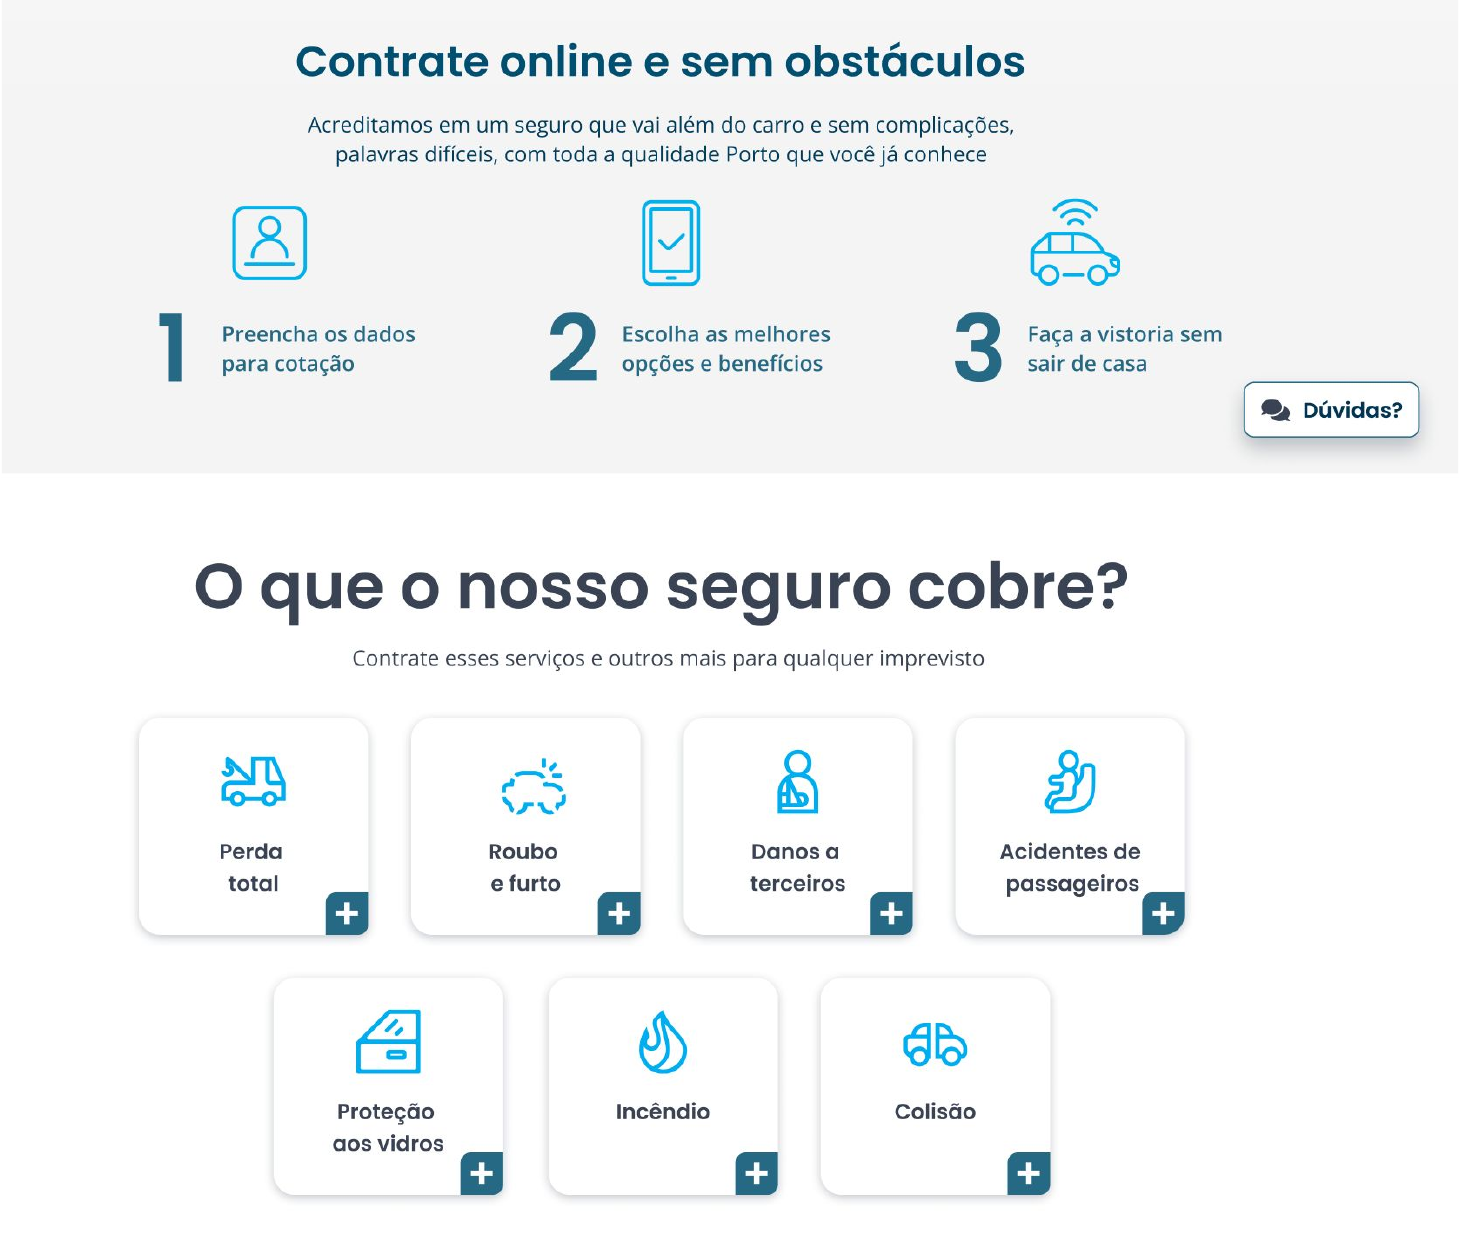
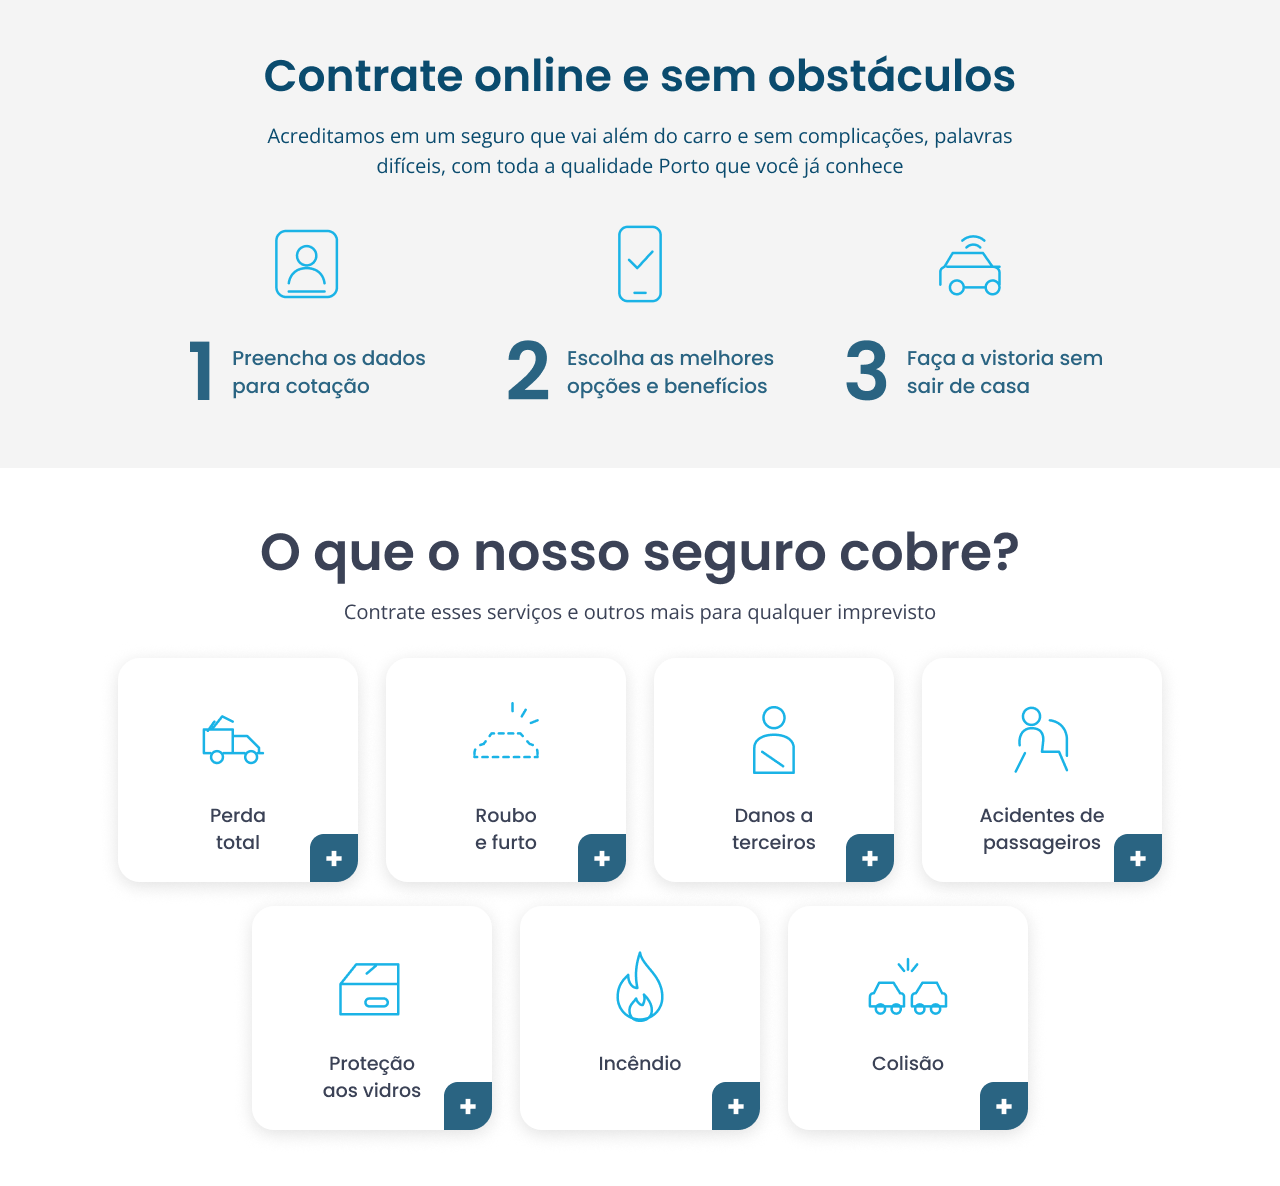
Porto: nova tela centralizada de Contrate online e Coberturas, feita no Figma (#66)
Claude-Session: https://claude.ai/code/session_011ETaZtr8DPnPDrrejMEoaU

diff --git a/es/index.html b/es/index.html
@@ -88,7 +88,7 @@
 <p class="wk-sub">De la preparación a la puerta, el comprador sigue su pedido en la app, en el push y en la pantalla de bloqueo.</p>
 </a>
 <a class="wk" href="#cotacao-seguro-auto" data-case="cotacao-seguro-auto" aria-label="Cotización de seguro auto en Porto">
-<div class="wk-cover"><div class="wk-imgs" style="--cols:1.616fr 1.179fr 1.674fr"><img style="aspect-ratio:1196/740" src="/porto-home.png" alt="Home del seguro auto: Un seguro fácil de entender, ventajas y los tres pasos de la contratación" loading="lazy"><img style="aspect-ratio:1460/1238" src="/porto-contrate.png" alt="Secciones Contratá online y sin obstáculos, con los tres pasos, y ¿Qué cubre nuestro seguro?, con siete coberturas" loading="lazy"><img style="aspect-ratio:1540/920" src="/porto-descontos.png" alt="Sección ¿Y por qué no más descuentos?, con las ventajas de la app Trânsito mais gentil, de Vivo y de Itaú" loading="lazy"></div></div>
+<div class="wk-cover"><div class="wk-imgs" style="--cols:1.616fr 1.079fr 1.674fr"><img style="aspect-ratio:1196/740" src="/porto-home.png" alt="Home del seguro auto: Un seguro fácil de entender, ventajas y los tres pasos de la contratación" loading="lazy"><img style="aspect-ratio:1280/1186" src="/porto-contrate.png" alt="Secciones Contratá online y sin obstáculos, con los tres pasos, y ¿Qué cubre nuestro seguro?, con siete coberturas" loading="lazy"><img style="aspect-ratio:1540/920" src="/porto-descontos.png" alt="Sección ¿Y por qué no más descuentos?, con las ventajas de la app Trânsito mais gentil, de Vivo y de Itaú" loading="lazy"></div></div>
 <p class="wk-meta"><b>Cotización de seguro auto en Porto</b>&nbsp; Porto</p>
 <p class="wk-sub">Un recorrido de cotización que la gente entiende sin necesitar un corredor.</p>
 </a>
@@ -209,9 +209,9 @@
 <p class="cx-role"><b>Product y Content Designer</b><span>Porto</span></p>
 </div>
 <div class="cx-bleed">
-<div class="cx-strip imgs fx" style="--n:3;--cols:1.616fr 1.179fr 1.674fr">
+<div class="cx-strip imgs fx" style="--n:3;--cols:1.616fr 1.079fr 1.674fr">
 <img style="aspect-ratio:1196/740" src="/porto-home.png" alt="Home del seguro auto: Un seguro fácil de entender, ventajas y los tres pasos de la contratación" loading="lazy">
-<img style="aspect-ratio:1460/1238" src="/porto-contrate.png" alt="Secciones Contratá online y sin obstáculos, con los tres pasos, y ¿Qué cubre nuestro seguro?, con siete coberturas" loading="lazy">
+<img style="aspect-ratio:1280/1186" src="/porto-contrate.png" alt="Secciones Contratá online y sin obstáculos, con los tres pasos, y ¿Qué cubre nuestro seguro?, con siete coberturas" loading="lazy">
 <img style="aspect-ratio:1540/920" src="/porto-descontos.png" alt="Sección ¿Y por qué no más descuentos?, con las ventajas de la app Trânsito mais gentil, de Vivo y de Itaú" loading="lazy">
 </div>
 </div>

diff --git a/pt/index.html b/pt/index.html
@@ -106,7 +106,7 @@
 <p class="wk-sub">Do preparo até a porta, o comprador acompanha o pedido no app, no push e na tela de bloqueio.</p>
 </a>
 <a class="wk" href="#cotacao-seguro-auto" data-case="cotacao-seguro-auto" aria-label="Cotação de seguro auto na Porto">
-<div class="wk-cover"><div class="wk-imgs" style="--cols:1.616fr 1.179fr 1.674fr"><img style="aspect-ratio:1196/740" src="/porto-home.png" alt="Página inicial do seguro auto: Um seguro fácil de entender, vantagens e os três passos da contratação" loading="lazy"><img style="aspect-ratio:1460/1238" src="/porto-contrate.png" alt="Seções Contrate online e sem obstáculos, com os três passos, e O que o nosso seguro cobre?, com sete coberturas" loading="lazy"><img style="aspect-ratio:1540/920" src="/porto-descontos.png" alt="Seção E por que não mais descontos?, com as vantagens do app Trânsito mais gentil, da Vivo e do Itaú" loading="lazy"></div></div>
+<div class="wk-cover"><div class="wk-imgs" style="--cols:1.616fr 1.079fr 1.674fr"><img style="aspect-ratio:1196/740" src="/porto-home.png" alt="Página inicial do seguro auto: Um seguro fácil de entender, vantagens e os três passos da contratação" loading="lazy"><img style="aspect-ratio:1280/1186" src="/porto-contrate.png" alt="Seções Contrate online e sem obstáculos, com os três passos, e O que o nosso seguro cobre?, com sete coberturas" loading="lazy"><img style="aspect-ratio:1540/920" src="/porto-descontos.png" alt="Seção E por que não mais descontos?, com as vantagens do app Trânsito mais gentil, da Vivo e do Itaú" loading="lazy"></div></div>
 <p class="wk-meta"><b>Cotação de seguro auto na Porto</b>&nbsp; Porto</p>
 <p class="wk-sub">Uma jornada de cotação que as pessoas entendem sem precisar de um corretor.</p>
 </a>
@@ -227,9 +227,9 @@
 <p class="cx-role"><b>Product e Content Designer</b><span>Porto</span></p>
 </div>
 <div class="cx-bleed">
-<div class="cx-strip imgs fx" style="--n:3;--cols:1.616fr 1.179fr 1.674fr">
+<div class="cx-strip imgs fx" style="--n:3;--cols:1.616fr 1.079fr 1.674fr">
 <img style="aspect-ratio:1196/740" src="/porto-home.png" alt="Página inicial do seguro auto: Um seguro fácil de entender, vantagens e os três passos da contratação" loading="lazy">
-<img style="aspect-ratio:1460/1238" src="/porto-contrate.png" alt="Seções Contrate online e sem obstáculos, com os três passos, e O que o nosso seguro cobre?, com sete coberturas" loading="lazy">
+<img style="aspect-ratio:1280/1186" src="/porto-contrate.png" alt="Seções Contrate online e sem obstáculos, com os três passos, e O que o nosso seguro cobre?, com sete coberturas" loading="lazy">
 <img style="aspect-ratio:1540/920" src="/porto-descontos.png" alt="Seção E por que não mais descontos?, com as vantagens do app Trânsito mais gentil, da Vivo e do Itaú" loading="lazy">
 </div>
 </div>

diff --git a/index.html b/index.html
@@ -88,7 +88,7 @@
 <p class="wk-sub">From prep to the door, buyers follow their order in the app, in push notifications and on the lock screen.</p>
 </a>
 <a class="wk" href="#cotacao-seguro-auto" data-case="cotacao-seguro-auto" aria-label="Car insurance quote at Porto">
-<div class="wk-cover"><div class="wk-imgs" style="--cols:1.616fr 1.179fr 1.674fr"><img style="aspect-ratio:1196/740" src="/porto-home.png" alt="Auto insurance home: An insurance that is easy to understand, benefits and the three buying steps" loading="lazy"><img style="aspect-ratio:1460/1238" src="/porto-contrate.png" alt="Sections Buy online with no obstacles, with the three steps, and What does our insurance cover?, with seven coverages" loading="lazy"><img style="aspect-ratio:1540/920" src="/porto-descontos.png" alt="Section Why not more discounts?, with the perks from the Trânsito mais gentil app, Vivo and Itaú" loading="lazy"></div></div>
+<div class="wk-cover"><div class="wk-imgs" style="--cols:1.616fr 1.079fr 1.674fr"><img style="aspect-ratio:1196/740" src="/porto-home.png" alt="Auto insurance home: An insurance that is easy to understand, benefits and the three buying steps" loading="lazy"><img style="aspect-ratio:1280/1186" src="/porto-contrate.png" alt="Sections Buy online with no obstacles, with the three steps, and What does our insurance cover?, with seven coverages" loading="lazy"><img style="aspect-ratio:1540/920" src="/porto-descontos.png" alt="Section Why not more discounts?, with the perks from the Trânsito mais gentil app, Vivo and Itaú" loading="lazy"></div></div>
 <p class="wk-meta"><b>Car insurance quote at Porto</b>&nbsp; Porto</p>
 <p class="wk-sub">A quote journey people can understand without needing a broker.</p>
 </a>
@@ -209,9 +209,9 @@
 <p class="cx-role"><b>Product and Content Designer</b><span>Porto</span></p>
 </div>
 <div class="cx-bleed">
-<div class="cx-strip imgs fx" style="--n:3;--cols:1.616fr 1.179fr 1.674fr">
+<div class="cx-strip imgs fx" style="--n:3;--cols:1.616fr 1.079fr 1.674fr">
 <img style="aspect-ratio:1196/740" src="/porto-home.png" alt="Auto insurance home: An insurance that is easy to understand, benefits and the three buying steps" loading="lazy">
-<img style="aspect-ratio:1460/1238" src="/porto-contrate.png" alt="Sections Buy online with no obstacles, with the three steps, and What does our insurance cover?, with seven coverages" loading="lazy">
+<img style="aspect-ratio:1280/1186" src="/porto-contrate.png" alt="Sections Buy online with no obstacles, with the three steps, and What does our insurance cover?, with seven coverages" loading="lazy">
 <img style="aspect-ratio:1540/920" src="/porto-descontos.png" alt="Section Why not more discounts?, with the perks from the Trânsito mais gentil app, Vivo and Itaú" loading="lazy">
 </div>
 </div>
